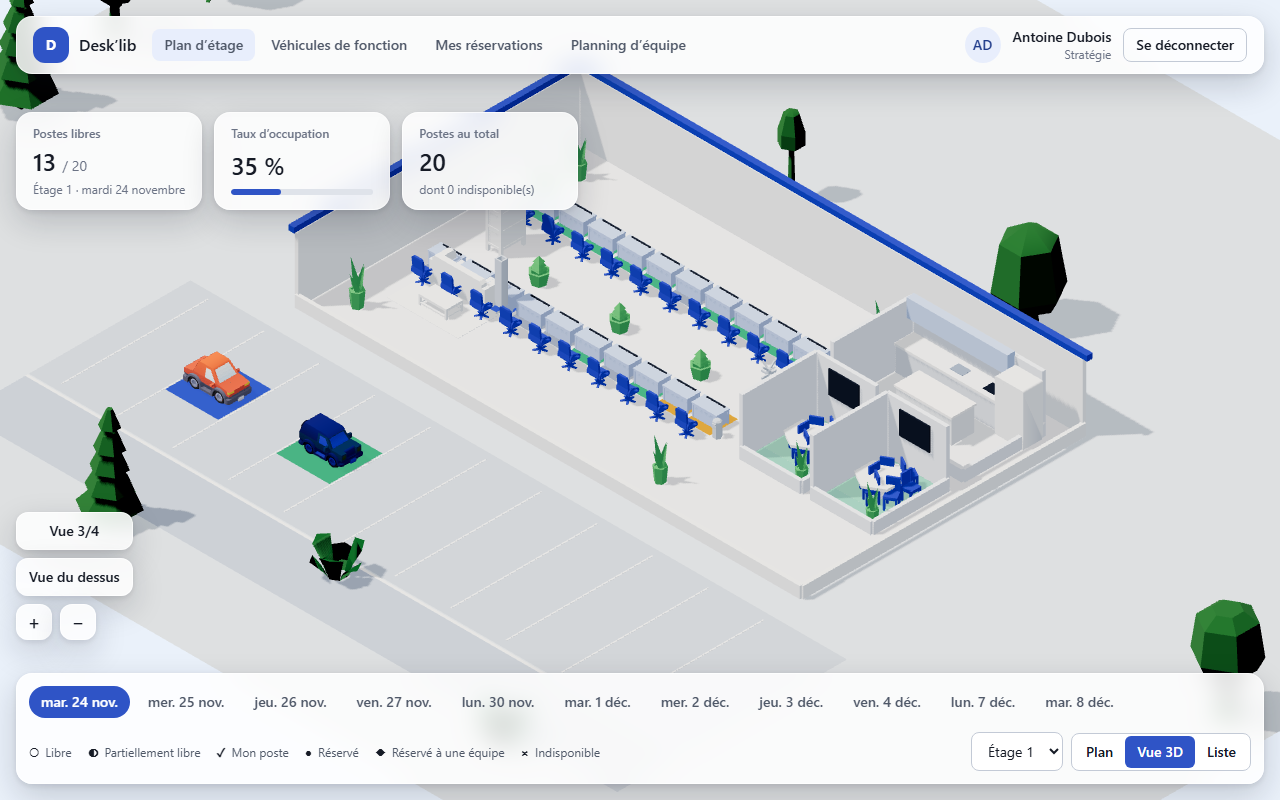
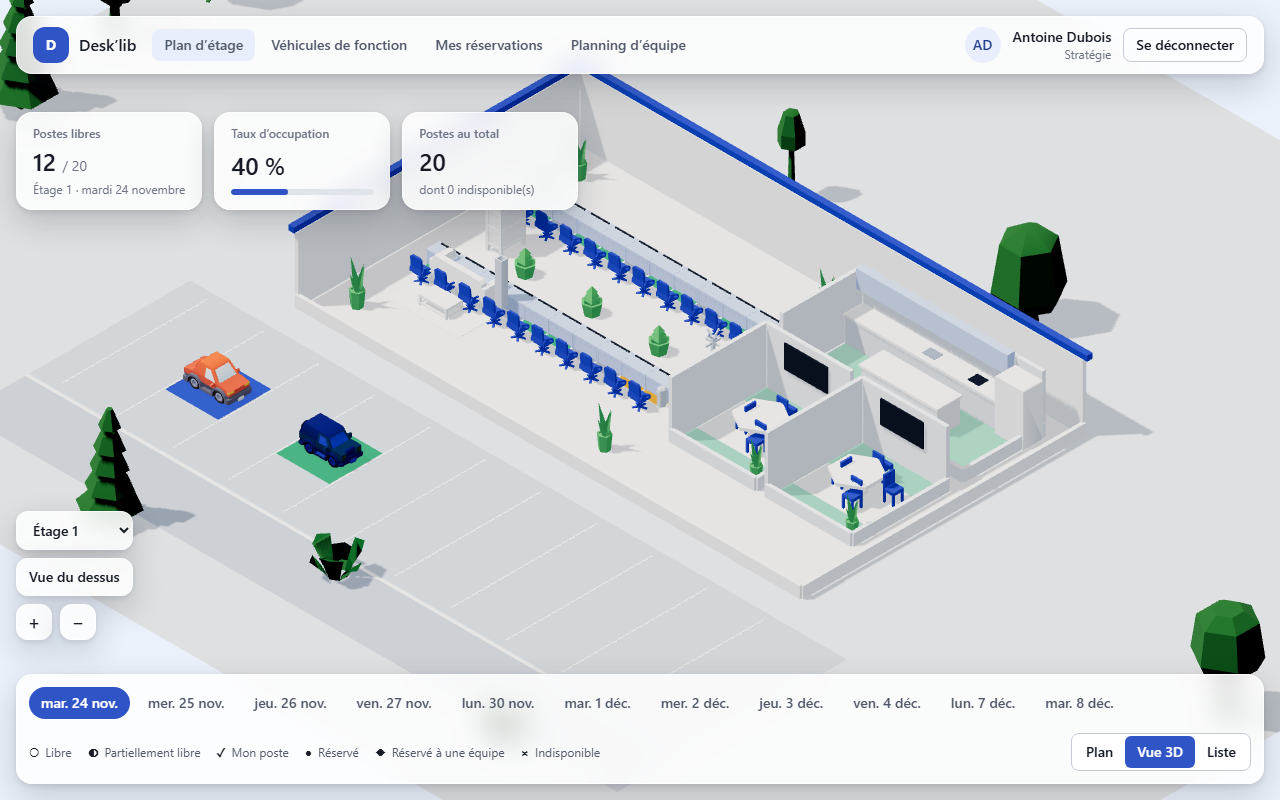
Étages distincts, salle de pause réservable, salles agrandies

diff --git a/apps/api/prisma/seed.ts b/apps/api/prisma/seed.ts
@@ -24,7 +24,6 @@ import {
   parseIsoDate,
 } from '../src/bookings/domain/booking-rules.js';
 
-
 const prisma = new PrismaClient({
   adapter: new PrismaPg({ connectionString: process.env['DATABASE_URL'] }),
 });
@@ -208,69 +207,120 @@ for (let i = 0; i < FIRST_NAMES.length; i++) {
   });
 }
 
-/** Postes : 2 étages, 2 rangées de 10 postes par étage (A01–A20 et B01–B20). */
+/** Deux étages distincts : plans, zones et postes différents. */
 function buildFloors() {
-  const floors = [
-    { name: 'Étage 1', prefix: 'A' },
-    { name: 'Étage 2', prefix: 'B' },
+  const floor1Zones = [
+    {
+      name: 'Open space',
+      kind: 'openspace',
+      x: 40,
+      y: 40,
+      width: 530,
+      height: 480,
+    },
+    {
+      name: 'Cuisine',
+      kind: 'kitchen',
+      x: 600,
+      y: 40,
+      width: 360,
+      height: 160,
+    },
+    {
+      name: 'Salle Lumière',
+      kind: 'room',
+      x: 600,
+      y: 230,
+      width: 170,
+      height: 190,
+    },
+    {
+      name: 'Salle Horizon',
+      kind: 'room',
+      x: 790,
+      y: 230,
+      width: 170,
+      height: 190,
+    },
   ];
-  return floors.map((floor) => {
-    const desks = Array.from({ length: 20 }, (_, index) => {
-      const row = Math.floor(index / 10);
-      const col = index % 10;
-      return {
-        label: `${floor.prefix}${String(index + 1).padStart(2, '0')}`,
-        x: 60 + col * 58,
-        y: row === 0 ? 120 : 320,
-        width: 46,
-        height: 50,
-        features: [
-          pick(FEATURES),
-          ...(rng() > 0.5 ? [pick(FEATURES)] : []),
-        ].filter((f, i, arr) => arr.indexOf(f) === i),
-      };
-    });
+  const floor2Zones = [
+    {
+      name: 'Open space',
+      kind: 'openspace',
+      x: 40,
+      y: 40,
+      width: 380,
+      height: 480,
+    },
+    {
+      name: 'Salle Atlas',
+      kind: 'room',
+      x: 450,
+      y: 40,
+      width: 250,
+      height: 210,
+    },
+    {
+      name: 'Salle Boréal',
+      kind: 'room',
+      x: 720,
+      y: 40,
+      width: 240,
+      height: 210,
+    },
+    {
+      name: 'Cuisine',
+      kind: 'kitchen',
+      x: 450,
+      y: 280,
+      width: 510,
+      height: 240,
+    },
+  ];
+  // Étage 1 : deux rangées de dix postes.
+  const floor1Desks = Array.from({ length: 20 }, (_, index) => {
+    const row = Math.floor(index / 10);
+    const col = index % 10;
     return {
-      name: floor.name,
-      width: 1000,
-      height: 560,
-      zones: [
-        {
-          name: 'Open space',
-          kind: 'openspace',
-          x: 40,
-          y: 40,
-          width: 640,
-          height: 480,
-        },
-        {
-          name: 'Cuisine',
-          kind: 'kitchen',
-          x: 700,
-          y: 40,
-          width: 260,
-          height: 160,
-        },
-        {
-          name: 'Salle Lumière',
-          kind: 'room',
-          x: 700,
-          y: 230,
-          width: 120,
-          height: 150,
-        },
-        {
-          name: 'Salle Horizon',
-          kind: 'room',
-          x: 840,
-          y: 230,
-          width: 120,
-          height: 150,
-        },
-      ],
-      desks,
+      label: `A${String(index + 1).padStart(2, '0')}`,
+      x: 60 + col * 48,
+      y: row === 0 ? 120 : 320,
+      width: 40,
+      height: 50,
+      features: [pick(FEATURES)],
     };
   });
+  // Étage 2 : quatre îlots de cinq postes, disposés en grille.
+  const floor2Desks = Array.from({ length: 20 }, (_, index) => {
+    const row = Math.floor(index / 5);
+    const col = index % 5;
+    return {
+      label: `B${String(index + 1).padStart(2, '0')}`,
+      x: 60 + col * 72,
+      y: 110 + row * 95,
+      width: 42,
+      height: 50,
+      features: [pick(FEATURES), pick(FEATURES)].filter(
+        (f, i, arr) => arr.indexOf(f) === i,
+      ),
+    };
+  });
+  return [
+    {
+      name: 'Étage 1',
+      width: 1000,
+      height: 560,
+      zones: floor1Zones,
+      desks: floor1Desks,
+    },
+    {
+      name: 'Étage 2',
+      width: 1000,
+      height: 560,
+      zones: floor2Zones,
+      desks: floor2Desks,
+    },
+  ];
 }
 
 async function main(): Promise<void> {
@@ -463,16 +513,21 @@ async function main(): Promise<void> {
     `Réservations : ${bookingCount} actives, ${cancelledCount} annulées (historique).`,
   );
   // Salles de réunion réservables : une salle par zone « salle » de chaque étage.
-  const floorsWithZones = await prisma.floor.findMany({ select: { id: true, zones: true } });
+  const floorsWithZones = await prisma.floor.findMany({
+    select: { id: true, zones: true },
+  });
   for (const floor of floorsWithZones) {
     const zones = (floor.zones as { name: string; kind: string }[]) ?? [];
-    for (const zone of zones.filter((z) => z.kind === 'room')) {
+    for (const zone of zones.filter(
+      (z) => z.kind === 'room' || z.kind === 'kitchen',
+    )) {
       await prisma.room.create({
         data: {
-          name: zone.name,
+          name:
+            zone.kind === 'kitchen' ? 'Cuisine · salle de pause' : zone.name,
           zoneName: zone.name,
           floorId: floor.id,
-          capacity: zone.name.includes('Horizon') ? 8 : 6,
+          capacity: zone.kind === 'kitchen' ? 8 : 4,
         },
       });
     }
@@ -511,7 +566,9 @@ async function main(): Promise<void> {
             status: 'ACTIVE',
             createdById: driver.id,
             slots: {
-              create: [{ vehicleId: vehicle.id, userId: driver.id, date, half }],
+              create: [
+                { vehicleId: vehicle.id, userId: driver.id, date, half },
+              ],
             },
           },
         });

diff --git a/apps/web/src/app/features/floor-plan/scene3d/floor-scene-3d.component.ts b/apps/web/src/app/features/floor-plan/scene3d/floor-scene-3d.component.ts
@@ -9,20 +9,14 @@ import {
   untracked,
   viewChild,
 } from '@angular/core';
-import type { FloorDetail } from '../../../core/models';
+import type { FloorDetail, FloorSummary } from '../../../core/models';
 import { EmptyStateComponent } from '../../../shared/ui/feedback.components';
-import type {
-  OfficeScene,
-  SceneDesk,
-  SceneRoom,
-  SceneVehicle,
-  ScenePick,
-  SceneView,
-} from './office-scene';
+import type { OfficeScene, SceneDesk, SceneRoom, SceneVehicle, ScenePick } from './office-scene';
 
 /**
  * Vue 3D de l'étage. Three.js est chargé à la demande (import dynamique). Glisser fait tourner la scène,
  * la molette zoome, et un clic (sans glisser) sur un poste, un véhicule ou une salle l'émet.
+ * Le choix d'étage et la bascule « Vue du dessus » sont dans les contrôles de la scène.
  */
 @Component({
   selector: 'app-floor-scene-3d',
@@ -60,19 +54,24 @@ import type {
           role="group"
           aria-label="Contrôles de la vue 3D"
         >
+          <select
+            #floorSelect
+            class="rounded-xl border border-white/70 bg-white/85 px-3 py-2 text-sm font-medium shadow-pop backdrop-blur-md hover:bg-white"
+            aria-label="Étage"
+            [value]="floorId()"
+            (change)="floorChange.emit(floorSelect.value)"
+          >
+            @for (floor of floors(); track floor.id) {
+              <option [value]="floor.id">{{ floor.name }}</option>
+            }
+          </select>
           <button
             type="button"
             class="rounded-xl border border-white/70 bg-white/85 px-3 py-2 text-sm font-medium shadow-pop backdrop-blur-md hover:bg-white"
-            (click)="setView('iso')"
+            [attr.aria-pressed]="topView()"
+            (click)="toggleTopView()"
           >
-            Vue 3/4
-          </button>
-          <button
-            type="button"
-            class="rounded-xl border border-white/70 bg-white/85 px-3 py-2 text-sm font-medium shadow-pop backdrop-blur-md hover:bg-white"
-            (click)="setView('top')"
-          >
-            Vue du dessus
+            {{ topView() ? 'Vue 3D' : 'Vue du dessus' }}
           </button>
           <div class="flex gap-2">
             <button
@@ -119,13 +118,18 @@ export class FloorScene3dComponent implements AfterViewInit, OnDestroy {
   readonly desks = input.required<readonly SceneDesk[]>();
   readonly vehicles = input<readonly SceneVehicle[]>([]);
   readonly rooms = input<readonly SceneRoom[]>([]);
+  readonly floors = input<readonly FloorSummary[]>([]);
+  readonly floorId = input('');
   /** Élément choisi (clic sans glisser). */
   readonly picked = output<ScenePick>();
+  /** Étage choisi dans les contrôles de la scène. */
+  readonly floorChange = output<string>();
 
   private readonly host = viewChild.required<ElementRef<HTMLDivElement>>('host');
   private readonly canvas = viewChild.required<ElementRef<HTMLCanvasElement>>('canvas');
 
   protected readonly status = signal<'loading' | 'ready' | 'error'>('loading');
+  protected readonly topView = signal(false);
 
   private scene: OfficeScene | null = null;
   private resizeObserver: ResizeObserver | null = null;
@@ -139,7 +143,11 @@ export class FloorScene3dComponent implements AfterViewInit, OnDestroy {
       const desks = this.desks();
       const vehicles = this.vehicles();
       const rooms = this.rooms();
-      untracked(() => this.scene?.update(detail, desks, vehicles, rooms));
+      untracked(() => {
+        this.scene?.update(detail, desks, vehicles, rooms);
+        // Un nouvel étage repart de la vue 3/4 par défaut.
+        this.topView.set(false);
+      });
     });
   }
 
@@ -153,8 +161,9 @@ export class FloorScene3dComponent implements AfterViewInit, OnDestroy {
     this.scene?.dispose();
   }
 
-  protected setView(view: SceneView): void {
-    this.scene?.setView(view);
+  protected toggleTopView(): void {
+    this.topView.update((v) => !v);
+    this.scene?.setView(this.topView() ? 'top' : 'iso');
   }
 
   protected zoom(factor: number): void {

diff --git a/apps/web/src/app/features/floor-plan/scene3d/office-scene.ts b/apps/web/src/app/features/floor-plan/scene3d/office-scene.ts
@@ -608,7 +608,7 @@ export class OfficeScene {
 
     // Salles réservables : repère de disponibilité sur la zone, zone cliquable.
     for (const room of rooms) {
-      const zone = detail.zones.find((z) => z.kind === 'room' && z.name === room.zoneName);
+      const zone = detail.zones.find((z) => z.name === room.zoneName);
       if (!zone) continue;
       this.addRoomMarker(group, room, zone);
     }
@@ -684,15 +684,15 @@ export class OfficeScene {
 
     group.add(this.box(zw * 0.5, 0.9, 0.05, this.material(0x1e293b, 0.4), cx, 1.5, z0 + 0.12));
 
-    const table = this.fit(this.model('table-round'), { footprint: Math.min(zw, zd) * 0.62 });
+    const table = this.fit(this.model('table-round'), { footprint: Math.min(zw, zd) * 0.5 });
     this.anchor(table, cx, cz);
     group.add(table);
     const rug = this.fit(this.model('rug'), { footprint: Math.min(zw, zd) * 0.95 });
     this.anchor(rug, cx, cz);
     group.add(rug);
-    const radius = Math.min(zw, zd) * 0.34;
-    for (let i = 0; i < 6; i++) {
-      const a = (i / 6) * Math.PI * 2;
+    const radius = Math.min(zw, zd) * 0.3;
+    for (let i = 0; i < 4; i++) {
+      const a = (i / 4) * Math.PI * 2;
       const chair = this.fit(this.model('chair-modern'), { height: 0.95 });
       this.anchor(chair, cx + Math.cos(a) * radius, cz + Math.sin(a) * radius);
       chair.rotation.y = Math.atan2(-Math.cos(a), -Math.sin(a));

diff --git a/apps/web/src/app/features/floor-plan/floor-plan.page.html b/apps/web/src/app/features/floor-plan/floor-plan.page.html
@@ -20,6 +20,9 @@
           [vehicles]="sceneVehicles()"
           [rooms]="sceneRooms()"
           (picked)="onScenePick($event)"
+          [floors]="floors()"
+          [floorId]="floorId() ?? ''"
+          (floorChange)="selectFloor($event)"
         />
       }
     } @else if (viewMode() === 'plan') {
@@ -383,9 +386,10 @@
       </ul>
 
       <div class="ml-auto flex flex-wrap items-center gap-2">
-        <label class="sr-only" for="floor-select">Étage</label>
+        <label class="sr-only" for="floor-select" [class.hidden]="viewMode() === '3d'">Étage</label>
         <select
           id="floor-select"
+          [class.hidden]="viewMode() === '3d'"
           #floorSelect
           class="field w-auto"
           [value]="floorId() ?? ''"

diff --git a/e2e/screenshots.spec.ts b/e2e/screenshots.spec.ts
@@ -35,9 +35,8 @@ test('captures des écrans principaux', async ({ page }) => {
   await page.screenshot({ path: path.join(OUT, 'plan-vue-dessus.png') });
 
   // Changement d'étage : capture pendant la transition animée.
-  await page.getByRole('button', { name: 'Vue 3/4', exact: true }).click();
   await page.waitForTimeout(800);
-  await page.locator('#floor-select').selectOption({ index: 1 });
+  await page.locator('select[aria-label="Étage"]').first().selectOption({ index: 1 });
   await page.waitForTimeout(350);
   await page.screenshot({ path: path.join(OUT, 'plan-transition-etage.png') });
   await page.waitForTimeout(1500);
